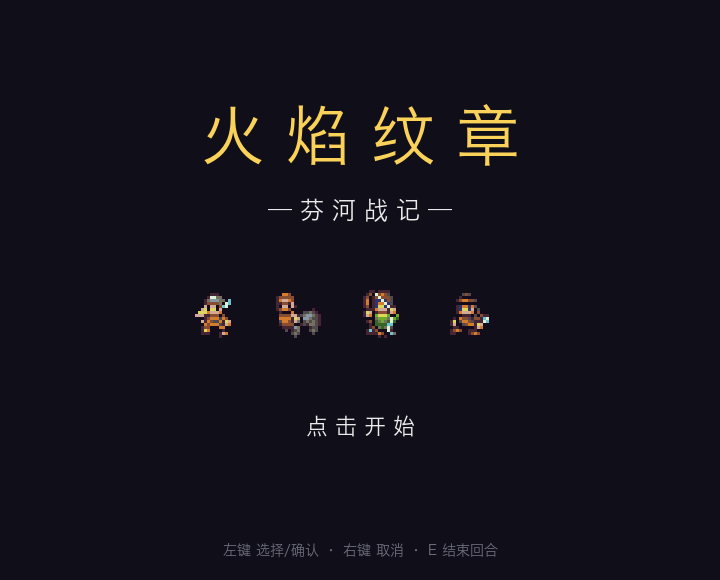
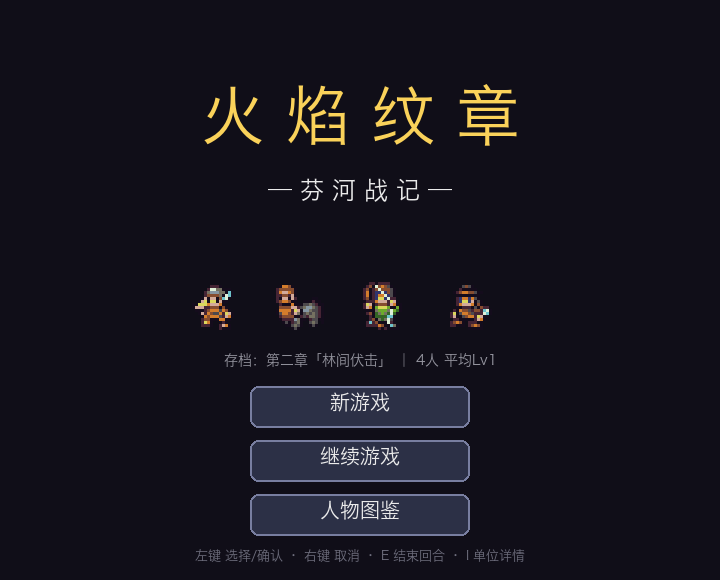
docs: README 三期功能（存档/剧情/图鉴），v3 设计文档与新截图

diff --git a/docs/superpowers/specs/2026-06-11-save-story-codex-design.md b/docs/superpowers/specs/2026-06-11-save-story-codex-design.md
@@ -1,0 +1,73 @@
+# 火焰纹章·芬河战记 — 存档 / 剧情 / 图鉴 完整化计划
+
+## Context
+
+游戏目前已是可通关的三章战役（pygame，逻辑/渲染分层，38 个 pytest），但缺三块「完整游戏」要素：关机即丢进度、角色没有故事、世界观只有每章三行简介。用户确认的方案：**章节自动存档**（标题菜单加「继续游戏」）、**序章旁白 + 火纹式章节对话**（精灵头像+名字+台词，含 Boss 叫阵）、**人物图鉴 + 战斗内 I 键详情**。
+
+项目路径：`/Users/wangxingyu/claude/火焰纹章`（本会话所建，结构全部已知）。
+
+## 关键设计决策（已由 Plan 代理对照代码验证）
+
+1. **`start_chapter` 拆分为 `setup_chapter(retry)` + `enter_battle()`**：先布阵→章前对话在真实战场上播放→再弹回合横幅开战。`start_chapter` 保留为 wrapper（END 重试路径不变，天然不重播章前对话）。
+2. **菲尔入队幂等化**：`setup_chapter` 的 join 改为按 name 查重再 append。两种合法存档（第1章通关档 roster=4 / 第2章开局档 roster=5）加载后都收敛到正确的 5 人，无需 from_save 特判。
+3. **通关对话先于 CLEAR**：`continue_after_combat` 判定 `_chapter_won()` 后先播 post 对话（战场背景），回调 `chapter_clear()`。
+4. **Boss 叫阵**：`confirm_attack()` 里 `target.boss and not self.boss_quote_shown` → 播叫阵对话，回调进 `start_combat`。标志在 `setup_chapter` 重置（败北重试会重播一次，火纹惯例）。
+5. **存档时机**：写档 2 处——`setup_chapter` 非 retry（snapshot 之后）、`chapter_clear` 非末章（idx+1）；删档 2 处——末章 clear、进 COMPLETE 兜底。原子写（tmp + `os.replace`）。损坏/版本不符 → load 返回 None →「继续游戏」灰显，不崩溃。
+6. **图鉴数据源**：`CLASSES` 基础值 + 成长率（与进度无关，随时可看）；敌方 growth 为空显示「—」。
+
+## 存档 Schema（save.json，gitignore）
+
+```json
+{"version": 1, "chapter_idx": 1,
+ "roster": [{"name":"罗伊","cls":"lord","level":3,"exp":40,
+             "max_hp":23,"pow":8,"skl":9,"spd":11,"dfn":6}, ...]}
+```
+校验：version 匹配、chapter_idx 在界内、roster[0].cls=='lord'、全字段非负 int、cls∈CLASSES、name 不重复且属于合法名单。hp/potions/坐标不存（每章开局重置）。
+
+## 状态机增量
+
+```
+TITLE(菜单: 新游戏/继续游戏/人物图鉴)
+  ├新游戏→ PROLOGUE(旁白页) → INTRO(ch0)
+  ├继续→ 载档建roster+snapshot → INTRO(存档章)
+  └图鉴→ CODEX ←ESC→ TITLE
+INTRO →点击→ setup_chapter() → DIALOGUE(pre,战场背景) → enter_battle()→IDLE
+FORECAST →确认且Boss首次→ DIALOGUE(叫阵) → COMBAT
+胜利 → DIALOGUE(post) → CLEAR → next_chapter（末章→ PROLOGUE(尾声页) → COMPLETE）
+IDLE/MOVE →I键(悬停/选中单位)→ DETAIL →ESC/I→ 原状态
+```
+`update()` 早返回守卫追加 PROLOGUE/DIALOGUE/CODEX/DETAIL；DIALOGUE 的 draw 不早返回（画地图+单位后盖对话框）。
+
+## 文件改动
+
+| 文件 | 改动 |
+|------|------|
+| `unit.py` | `SAVE_FIELDS` + `to_dict()/from_dict()`（仅可变属性；from_dict 后 hp=max_hp） |
+| `save.py` 新建 | `save_game/load_game/delete_save/_validate`，纯逻辑零 pygame |
+| `story.py` 新建 | PROLOGUE/EPILOGUE 旁白页、CHAPTER_DIALOGUE{idx:{pre,post}}、BOSS_QUOTES、BIOS（5 我方+3 Boss）、NAME_TO_CLS、CODEX_ORDER；台词条目 `(speaker, side, text)`，旁白居中无头像。**全部中文文案由我撰写**（世界观：芬河边境、黑铁牙盗贼团、各角色生平与性格） |
+| `game.py` | setup/enter 拆分、join 幂等、四个新状态与播放器（start_dialogue/advance_dialogue/start_pages）、continue_game()、存档钩子、confirm_attack 叫阵、K_i 详情、TITLE 菜单 rects |
+| `ui.py` | `draw_title_menu`(返回 rects+存档摘要)、`draw_prologue`、`draw_dialogue`(2x 精灵头像左右停靠)、`draw_codex`(左名单右详情+成长率条)、`draw_unit_detail`；复用 font/draw_menu rects 模式 |
+| `.gitignore` | `save.json` |
+| `tests/` | test_save.py（往返/坏档/版本/缺字段/delete 幂等）、test_story.py（三章 pre/post 齐全、speaker 可解析、BIOS 覆盖 CODEX_ORDER）、test_unit.py 追加序列化用例 |
+| `README.md` | 操作说明（I 键、标题菜单）、存档说明 |
+
+不改：`combat/grid/ai/assets/sfx/main`（对话音效复用 select/confirm）。
+
+## 任务拆分（逐个提交，纯逻辑 TDD）
+
+1. **T1** unit 序列化 + 测试
+2. **T2** save.py + 测试 + gitignore
+3. **T3** story.py 全部正式文案 + 结构测试
+4. **T4** game 重构（setup/enter 拆分 + join 幂等，行为不变，38 测试全过）
+5. **T5** 对话系统（播放器 + draw_dialogue/draw_prologue + 四个集成点）
+6. **T6** 存档集成（钩子 + continue_game + 标题菜单）
+7. **T7** 图鉴 CODEX + 战斗内 DETAIL
+8. **T8** 收尾验收 + README + 重启游戏窗口
+
+## 验证
+
+- `pytest tests/`（预计 ~50 用例）全过
+- headless 冒烟脚本：新游戏→序章→章前对话→Boss 叫阵→通关对话→CLEAR 时 save.json 内容断言→重建 Game→继续游戏直达第 2 章且菲尔不重复→图鉴/详情截图→通关后档被删
+- 手写坏 save.json → 标题「继续游戏」灰显不崩溃
+- 关键画面截图人工核对（对话框、图鉴、标题菜单）
+- 最后真窗口启动试玩

diff --git a/README.md b/README.md
@@ -1,16 +1,17 @@
 # 火焰纹章 · 芬河战记
 
 用 Python + pygame 实现的火焰纹章（GBA 风格）回合制战棋——**完整三章战役**：
-标题画面、剧情过场、跨章节成长、新同伴加入、Boss 战与通关结算一应俱全。
+标题菜单、章节自动存档、序章旁白与火纹式剧情对话、Boss 叫阵、人物图鉴、
+跨章节成长、新同伴加入与通关结算一应俱全。
 完整实现武器克制三角、地形效果、经验升级、伤药道具、守备 AI 与程序化 8-bit 音效。
 
-| 标题画面 | 战斗（移动/攻击范围） | 第三章·要塞攻坚 |
+| 标题菜单（含存档摘要） | 剧情对话 | 人物图鉴 |
 |---|---|---|
-| ![标题](docs/images/screenshot-title.png) | ![移动](docs/images/screenshot-move.png) | ![城堡](docs/images/screenshot-castle.png) |
+| ![标题](docs/images/screenshot-title.png) | ![对话](docs/images/screenshot-dialogue.png) | ![图鉴](docs/images/screenshot-codex.png) |
 
-| 章节过场 | 战斗预测 | 升级结算 |
+| 第三章·要塞攻坚 | 战斗预测 | 升级结算 |
 |---|---|---|
-| ![过场](docs/images/screenshot-intro.png) | ![预测](docs/images/screenshot-forecast.png) | ![升级](docs/images/screenshot-levelup.png) |
+| ![城堡](docs/images/screenshot-castle.png) | ![预测](docs/images/screenshot-forecast.png) | ![升级](docs/images/screenshot-levelup.png) |
 
 ## 安装与启动
 
@@ -33,14 +34,24 @@ python3 -m venv .venv
 - 休闲模式：非主角阵亡本章退场、下章回归；主角阵亡即败北
 - 败北后按 **R** 重试本章（回滚到本章开局，之前章节的成长保留）
 
+## 存档与剧情
+
+- **章节自动存档**：每章布阵与通关时自动写入 `save.json`，无需手动操作；
+  标题画面「继续游戏」一键回到进度（含队伍等级），通关后自动删档开启新周目
+- 存档损坏时「继续游戏」自动灰显，不会崩溃；战斗中途退出回到本章开局
+- **剧情**：新游戏从世界观旁白开篇；每章战斗前后在战场上播放角色对话；
+  首次攻击 Boss 触发叫阵对话；通关后有尾声旁白（ESC 可跳过任何剧情）
+- **人物图鉴**：标题菜单进入，收录我方五人与三章 Boss 的生平、基础属性与成长倾向
+
 ## 操作
 
 | 输入 | 作用 |
 |------|------|
 | 左键 | 选择单位 / 确认移动 / 选择目标 / 确认攻击 |
 | 左键点敌人（待机时） | 显示/隐藏该敌人的威胁范围 |
-| 右键 / ESC | 取消，逐级退回上一步 |
+| 右键 / ESC | 取消，逐级退回上一步；剧情中 ESC 整段跳过 |
 | E | 提前结束我方回合 |
+| I | 查看悬停/选中单位的详情页（属性 + 生平） |
 | R | 败北后重试本章；通关画面返回标题 |
 | 鼠标悬停 | 底部信息栏查看单位属性与地形效果 |
 
@@ -69,14 +80,15 @@ python3 -m venv .venv
 ## 开发
 
 ```bash
-.venv/bin/python -m pytest tests/ -v   # 38 个纯逻辑单元测试
+.venv/bin/python -m pytest tests/ -v   # 51 个纯逻辑单元测试
 .venv/bin/python assets.py             # 生成精灵映射预览图
 .venv/bin/python sfx.py                # 试听全部程序化音效
 ```
 
-代码结构：`settings/unit/combat/grid/ai` 为零 pygame 依赖的纯逻辑层（pytest 覆盖），
-`assets/ui/game/sfx/main` 为渲染交互层。三章地图与全部数值集中在 `settings.py`，
-改平衡、加关卡只需改数据。设计文档见 `docs/superpowers/specs/`。
+代码结构：`settings/unit/combat/grid/ai/save/story` 为零 pygame 依赖的纯逻辑层
+（pytest 覆盖），`assets/ui/game/sfx/main` 为渲染交互层。三章地图与全部数值集中在
+`settings.py`，剧情文案与角色生平集中在 `story.py`，改平衡、加关卡、改台词只需改数据。
+设计文档见 `docs/superpowers/specs/`。
 
 ## 素材与许可
 